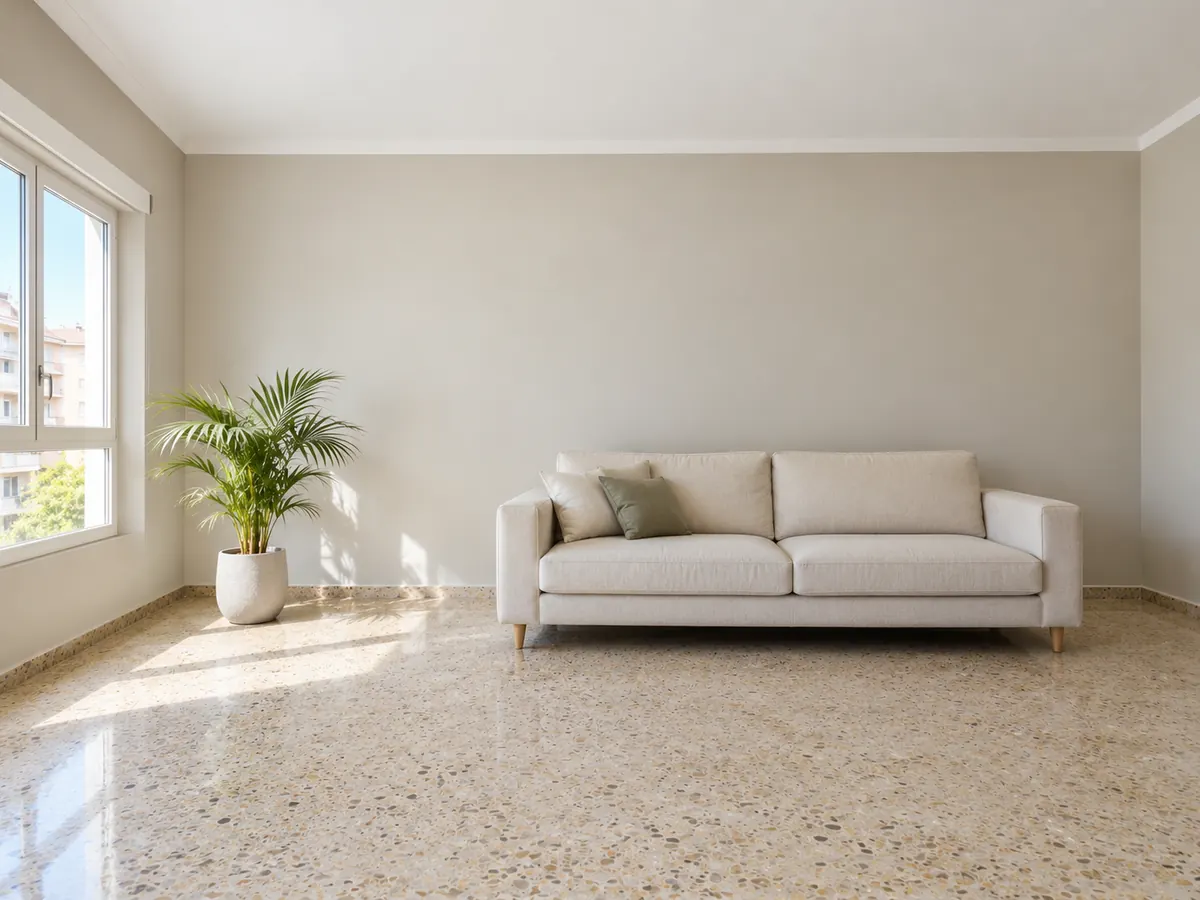
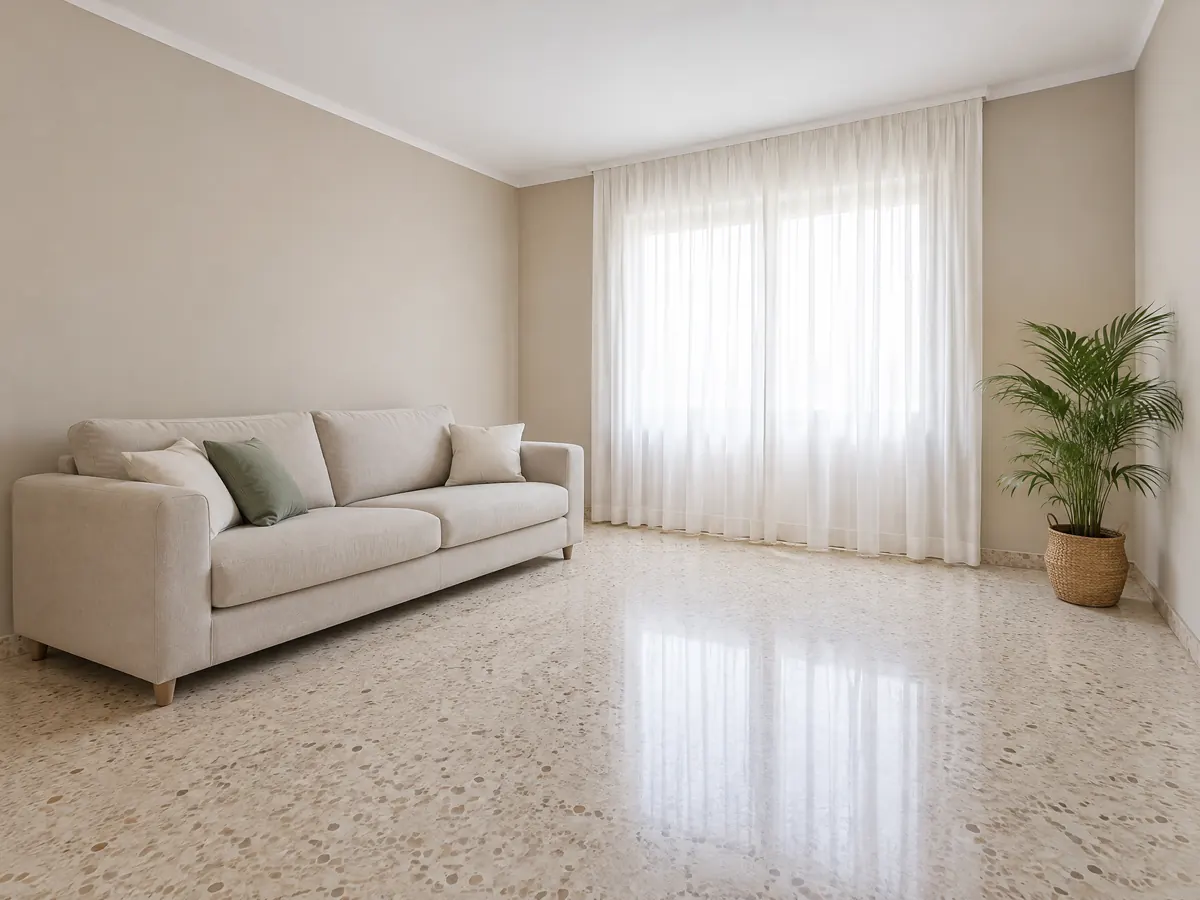
Imágenes de ambiente generadas con IA para los heros, trabajando y ambiente

diff --git a/lib/photos.ts b/lib/photos.ts
@@ -7,20 +7,20 @@ import type { ServiceSlug } from "@/lib/site";
 // Formatos y qué debe salir en cada una: FOTOS.md.
 
 export const photos = {
-  homeHero: { src: "/img/prueba/home-hero.webp", alt: "Salón con las paredes recién pintadas y el suelo protegido con papel" },
+  // Las de /img/generadas/ son de IA (ambiente, ver FOTOS.md): no son trabajos nuestros, nunca en antes/después.
+  homeHero: { src: "/img/generadas/home-hero.webp", alt: "Pared lisa recién pintada de blanco, con una silla y suelo de terrazo" },
   quitarGotele: { src: "/img/prueba/quitar-gotele-hero.webp", alt: "Pared con gotelé y la parte ya alisada" },
-  alisado: { src: "/img/prueba/alisado-hero.webp", alt: "Pared alisada con llana, vista con luz lateral" },
-  // Generada con IA (ambiente, ver FOTOS.md): no es un trabajo nuestro, por eso no se usa en antes/después.
+  alisado: { src: "/img/generadas/alisado.webp", alt: "Pared y techo alisados y pintados, vistos con luz lateral" },
   pinturaPisos: { src: "/img/generadas/salon-pintado.webp", alt: "Salón con las paredes recién pintadas en un tono claro" },
-  pinturaLocales: { src: "/img/prueba/pintura-locales-hero.webp", alt: "Oficina con las paredes recién pintadas" },
-  reparacion: { src: "/img/prueba/reparacion-hero.webp", alt: "Habitación con las grietas y agujeros reparados, lista para pintar" },
+  pinturaLocales: { src: "/img/generadas/local-pintado.webp", alt: "Local vacío recién pintado de blanco, con una pared en azul" },
+  reparacion: { src: "/img/generadas/reparacion.webp", alt: "Pared con las grietas y agujeros plastecidos y lijados, lista para pintar" },
   landingPintura: { src: "/img/generadas/salon-pintado.webp", alt: "Salón con las paredes recién pintadas en un tono claro" },
-  trabajandoCuadrada: { src: "/img/prueba/trabajando-cuadrada.webp", alt: "Pintor de YordeK pintando una pared con rodillo" },
-  trabajandoVertical: { src: "/img/prueba/trabajando-vertical.webp", alt: "Pintor de YordeK pintando una pared con rodillo" },
+  trabajandoCuadrada: { src: "/img/generadas/trabajando-cuadrada.webp", alt: "Pintor pasando el rodillo por una pared, con el suelo protegido con plástico" },
+  trabajandoVertical: { src: "/img/generadas/trabajando-vertical.webp", alt: "Pintor pasando el rodillo por una pared, con el suelo protegido con plástico" },
   // Ambiente: interiores de banco elegidos por la skill de diseño (ver FOTOS.md). Nunca fachadas ni exteriores.
-  paredLisa: { src: "/img/prueba/pared-lisa-hueco.webp", alt: "Pared blanca y lisa con un hueco que deja ver una escalera" },
+  paredLisa: { src: "/img/generadas/pared-lisa.webp", alt: "Pared blanca y lisa con una hornacina, con luz de tarde" },
   localCuadros: { src: "/img/prueba/local-cuadros.webp", alt: "Local con las paredes claras y cuadros colgados" },
-  comedor: { src: "/img/prueba/comedor-luz.webp", alt: "Comedor luminoso con las paredes blancas" },
+  comedor: { src: "/img/generadas/comedor.webp", alt: "Comedor luminoso con las paredes recién pintadas y suelo de terrazo" },
   paredAzul: { src: "/img/prueba/pared-azul.webp", alt: "Pared pintada de azul detrás de una mesa blanca" },
   dormitorio: { src: "/img/prueba/dormitorio-taza.webp", alt: "Dormitorio con paredes blancas y luz natural" },
 } satisfies Record<string, PhotoSrc>;

diff --git a/scripts/fotos.py b/scripts/fotos.py
@@ -39,8 +39,16 @@ SLOTS = {
     "despues-grieta": ("prueba", "prueba/pared-blanca-hornacina.jpg", 4 / 3, 0.5, 0.5),
     "antes-gotele": ("prueba", "prueba/pared-gotele.jpg", 4 / 3, 0.5, 0.5),
     "despues-gotele": ("prueba", "prueba/pared-lisa.jpg", 4 / 3, 0.5, 0.5),
-    # Generadas con IA por el cliente (ambiente, nunca como trabajo propio): sin etiqueta de prueba
-    "salon-pintado": ("generadas", "generadas/salon-pintado.png", 4 / 3, 0.55, 0.5),
+    # Generadas con IA (Higgsfield) (ambiente, nunca como trabajo propio): sin etiqueta de prueba
+    "home-hero": ("generadas", "generadas/home-hero.png", 4 / 3, 0.5, 0.5),
+    "salon-pintado": ("generadas", "generadas/salon-pintado.png", 4 / 3, 0.5, 0.5),
+    "local-pintado": ("generadas", "generadas/local-pintado.png", 4 / 3, 0.5, 0.5),
+    "alisado": ("generadas", "generadas/alisado.png", 4 / 3, 0.5, 0.5),
+    "trabajando-vertical": ("generadas", "generadas/trabajando.png", 4 / 5, 0.5, 0.5),
+    "trabajando-cuadrada": ("generadas", "generadas/trabajando.png", 1, 0.5, 0.45),
+    "pared-lisa": ("generadas", "generadas/pared-lisa.png", 4 / 3, 0.5, 0.5),
+    "comedor": ("generadas", "generadas/comedor.png", 4 / 3, 0.5, 0.5),
+    "reparacion": ("generadas", "generadas/reparacion.png", 4 / 3, 0.5, 0.5),
     # Ambiente (picsum/Unsplash, elegidas por la skill de diseño): interiores, nunca fachadas ni exteriores
     "pared-lisa-hueco": ("prueba", "prueba/picsum-954.jpg", 4 / 3, 0.38, 0.5),
     "local-cuadros": ("prueba", "prueba/picsum-834.jpg", 4 / 3, 0.5, 0.3),

diff --git a/FOTOS.md b/FOTOS.md
@@ -48,11 +48,22 @@ Las cinco `picsum-*` (25/10/2026) las eligió la skill de diseño para dar ambie
 
 ## Imágenes generadas con IA (en la web, sin etiqueta de prueba)
 
-Imágenes de **ambiente** generadas por el cliente con los prompts de diseño. No son trabajos propios: nunca se usan en antes/después ni como prueba de un trabajo. Originales en `fotos-originales/generadas/` (no se suben a git); se procesan con `scripts/fotos.py` y salen en `public/img/generadas/`.
+Imágenes de **ambiente** generadas con IA (Higgsfield, GPT Image 2.5, 28/10/2026). No son trabajos propios: nunca se usan en antes/después ni como prueba de un trabajo. Originales en `fotos-originales/generadas/` (no se suben a git); se procesan con `scripts/fotos.py` y salen en `public/img/generadas/`.
 
 | Archivo | Qué es | Dónde | Fecha |
 |---|---|---|---|
-| `salon-pintado.png` → `salon-pintado` | Salón recién pintado, suelo de terrazo (prompt 2) | Hero de `/pintura-de-pisos/` y de `/presupuesto-pintura/` | 25/10/2026 |
+| `home-hero.png` → `home-hero` | Pared lisa blanca con una silla, suelo de terrazo | Hero de la Home | 28/10/2026 |
+| `salon-pintado.png` → `salon-pintado` | Salón recién pintado, suelo de terrazo | Hero de `/pintura-de-pisos/` y de `/presupuesto-pintura/` | 28/10/2026 |
+| `trabajando.png` → `trabajando-vertical`, `trabajando-cuadrada` | Pintor de espaldas con rodillo y alargador | Home "Quiénes somos" y `/nosotros/` | 28/10/2026 |
+| `local-pintado.png` → `local-pintado` | Local vacío en blanco con pared azul | Hero de `/pintura-de-locales-comerciales/` | 28/10/2026 |
+| `alisado.png` → `alisado` | Pared y techo alisados con luz rasante | Hero de `/alisado-de-paredes/` | 28/10/2026 |
+| `reparacion.png` → `reparacion` | Pared con grietas y agujeros plastecidos | Hero de `/reparacion-de-paredes/` | 28/10/2026 |
+| `pared-lisa.png` → `pared-lisa` | Pared blanca con hornacina | "Qué incluye" de los servicios, `/nosotros/`, CTA final de `/presupuesto-quitar-gotele/` | 28/10/2026 |
+| `comedor.png` → `comedor` | Comedor recién pintado | CTA final de `/presupuesto-pintura/` | 28/10/2026 |
+
+La primera versión del salón, generada por el cliente, queda en `fotos-originales/generadas/salon-pintado-cliente.png`.
+
+**Siguen como prueba (tienen que ser fotos reales):** el hero de `/quitar-gotele/` (pared a medio quitar) y los pares de antes/después.
 
 ## Home `/`
 
